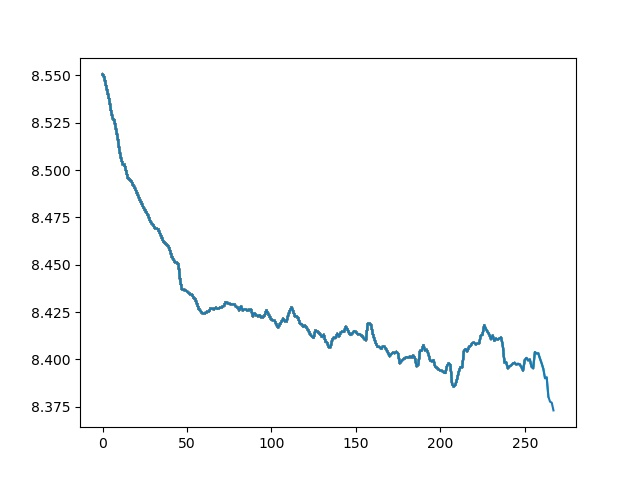
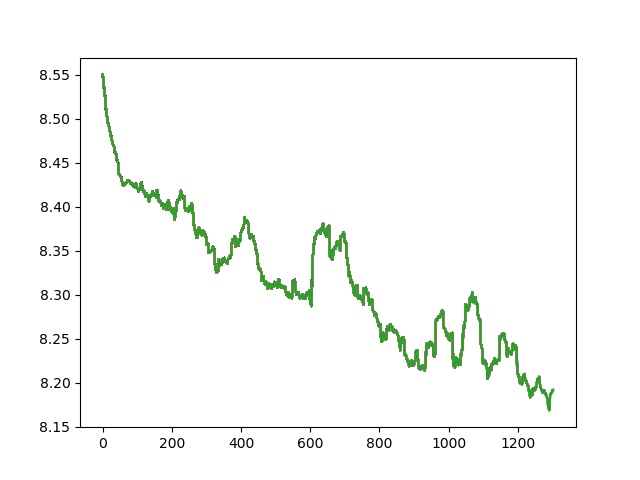
info loss term added

diff --git a/Actor_Critic.py b/Actor_Critic.py
@@ -13,20 +13,14 @@ from util import *
 class Actor_Critic(Module):
     def __init__(self, pretrain_loss_function=None):
         super().__init__()
-        last_hidden_layer_input = AC_HIDDEN_UNIT_NUM + AC_HIDDEN_UNIT_STRIDE*(AC_HIDDEN_LAYER_NUM - 1)
         self.l1 = Linear(STATE_SIZE*CODE_SIZE, AC_HIDDEN_UNIT_NUM)
-        self.b1 = BatchNorm1d(AC_HIDDEN_UNIT_NUM)
         self.a1 = PReLU()
         self.hidden_layers = ModuleList(
-            [Linear(i, i + AC_HIDDEN_UNIT_STRIDE) for i in range(AC_HIDDEN_UNIT_NUM, last_hidden_layer_input + 1, AC_HIDDEN_UNIT_STRIDE)]
-        )
-        self.batchnorm_layers = ModuleList(
-            [BatchNorm1d(i + AC_HIDDEN_UNIT_STRIDE) for i in range(AC_HIDDEN_UNIT_NUM, last_hidden_layer_input + 1, AC_HIDDEN_UNIT_STRIDE)]
+            [Linear(AC_HIDDEN_UNIT_NUM, AC_HIDDEN_UNIT_NUM) for i in range(AC_HIDDEN_LAYER_NUM)]
         )
         self.activation_layers = ModuleList([PReLU() for _ in range(AC_HIDDEN_LAYER_NUM)])
-        self.actor_layer = Linear(last_hidden_layer_input + AC_HIDDEN_UNIT_STRIDE, VOCAB_SIZE)
-        self.critic_hidden_layer = Linear(last_hidden_layer_input + AC_HIDDEN_UNIT_STRIDE, CRITIC_HIDDEN_UNIT_NUM)
-        self.critic_batchnorm = BatchNorm1d(CRITIC_HIDDEN_UNIT_NUM)
+        self.actor_layer = Linear(AC_HIDDEN_UNIT_NUM, VOCAB_SIZE)
+        self.critic_hidden_layer = Linear(AC_HIDDEN_UNIT_NUM, CRITIC_HIDDEN_UNIT_NUM)
         self.critic_activation = PReLU()
         self.critic_layer = Linear(CRITIC_HIDDEN_UNIT_NUM, 1)
         self.critic_loss_function = MSELoss()
@@ -41,12 +35,12 @@ class Actor_Critic(Module):
         s: [BATCH_SIZE, STATE_SIZE](torch.FloatTensor)
         c: [BATCH_SIZE, CODE_SIZE](torch.FloatTensor)
         OUT:
-        action_score = [BATCH_SIZE, VOCAB_SIZE]
+        action_logits = [BATCH_SIZE, VOCAB_SIZE]
         '''
         s_c = torch.bmm(s.unsqueeze(2), c.unsqueeze(1)).view(-1, STATE_SIZE*CODE_SIZE)
         x = self.a1(self.l1(s_c))
-        for layer, batchnorm, activation in zip(self.hidden_layers, self.batchnorm_layers, self.activation_layers):
-            x = activation(batchnorm((layer(x))))
+        for layer, activation in zip(self.hidden_layers, self.activation_layers):
+            x = activation((layer(x)))
         x = self.actor_layer(x)
         return x
 
@@ -66,8 +60,8 @@ class Actor_Critic(Module):
         '''
         s_c = torch.bmm(s.unsqueeze(2), c.unsqueeze(1)).view(-1, STATE_SIZE*CODE_SIZE)
         x = self.a1(self.l1(s_c))
-        for layer, batchnorm, activation in zip(self.hidden_layers, self.batchnorm_layers, self.activation_layers):
-            x = activation(batchnorm((layer(x))))
+        for layer, activation in zip(self.hidden_layers, self.activation_layers):
+            x = activation((layer(x)))
         x = self.actor_layer(x)
         '''
         top_values, _ = x.topk(TOP_K)
@@ -92,9 +86,9 @@ class Actor_Critic(Module):
         '''
         s_c = torch.bmm(s.unsqueeze(2), c.unsqueeze(1)).view(-1, STATE_SIZE*CODE_SIZE)
         x = self.a1(self.l1(s_c))
-        for layer, batchnorm, activation in zip(self.hidden_layers, self.batchnorm_layers, self.activation_layers):
-            x = activation(batchnorm((layer(x))))
-        x = self.critic_activation(self.critic_batchnorm(self.critic_hidden_layer(x)))
+        for layer, activation in zip(self.hidden_layers, self.activation_layers):
+            x = activation((layer(x)))
+        x = self.critic_activation(self.critic_hidden_layer(x))
         x = self.critic_layer(x)
         return x
 

diff --git a/Agent.py b/Agent.py
@@ -1,23 +1,28 @@
 import numpy as np
 import torch
+from torch.nn import CrossEntropyLoss
 from Actor_Critic import Actor_Critic
 from Discriminator import Discriminator
+from Autoencoder import Encoder
+from ActionEncoder import ActionEncoder
 from Memory import ShortMemory, LongMemory
 from util import *
 
 class Agent():
-    def __init__(self, bert_model, expert_weights=None, encoder=None):
+    def __init__(self, bert_model, expert_weights=None):
         if expert_weights is not None:
-            pretrain_loss_function = torch.nn.CrossEntropyLoss(torch.as_tensor(expert_weights, dtype=torch.float, device=DEVICE))
+            pretrain_loss_function = CrossEntropyLoss(torch.as_tensor(expert_weights, dtype=torch.float, device=DEVICE))
             self.actor_critic = Actor_Critic(pretrain_loss_function).to(DEVICE)
         else:
             default_weights = np.zeros(VOCAB_SIZE)
-            self.actor_critic = Actor_Critic(torch.nn.CrossEntropyLoss(torch.as_tensor(default_weights, dtype=torch.float, device=DEVICE)).to(DEVICE))
+            self.actor_critic = Actor_Critic(CrossEntropyLoss(torch.as_tensor(default_weights, dtype=torch.float, device=DEVICE)).to(DEVICE))
         self.discriminator = Discriminator().to(DEVICE)
         self.bert_model = bert_model
-        self.short_memory = ShortMemory(self.actor_critic, self.discriminator, bert_model, encoder)
+        self.encoder = Encoder(True)
+        self.actionencoder = ActionEncoder(True)
+        self.short_memory = ShortMemory(self.actor_critic, self.discriminator, bert_model, self.encoder)
         self.long_memory = LongMemory()
-        self.encoder = encoder
+        self.info_loss_function = CrossEntropyLoss()
         self.horizon_cnt = 0
         self.kl_coef = 0.1
         
@@ -138,10 +143,19 @@ class Agent():
             batch_old_log_probs = torch.as_tensor(old_log_probs[i*BATCH_SIZE:(i+1)*BATCH_SIZE], dtype=torch.float, device=DEVICE)
             critic_loss = self.actor_critic.critic_loss(batch_states, batch_codes, batch_oracle_values)
             actor_loss = self.actor_critic.actor_loss(batch_states, batch_actions, batch_codes, batch_gaes, batch_old_log_probs)
-            loss = PRETRAIN_COEF*pretrain_loss + ACTOR_COEF*actor_loss + CRITIC_COEF*critic_loss
+            #info loss
+            one_hot_codes = to_onehot(batch_codes)
+            action_logits = self.actor_critic(batch_states, one_hot_codes)
+            one_hot_action = gumbel_softmax(action_logits)
+            encoded_action = self.actionencoder(one_hot_action)
+            _, code_out = self.discriminator(batch_states, encoded_action)
+            info_loss = self.info_loss_function(code_out, torch.as_tensor(batch_codes, dtype=torch.long, device=DEVICE))
+            #integrated loss
+            loss = PRETRAIN_COEF*pretrain_loss + ACTOR_COEF*actor_loss + CRITIC_COEF*critic_loss + INFO_COEF*info_loss
             print('a loss: ', actor_loss, end=' ')
             print('c loss: ', critic_loss, end=' ')
-            print('p loss: ', pretrain_loss)
+            print('p loss: ', pretrain_loss, end=' ')
+            print('info loss: ', info_loss)
             self.actor_critic.train_by_loss(loss)
         return pretrain_loss_sum/(min(expert_chunk_length//BATCH_SIZE, agent_chunk_length//BATCH_SIZE))
 

diff --git a/ActionEncoder.py b/ActionEncoder.py
@@ -1,0 +1,69 @@
+import torch
+import numpy as np
+import matplotlib.pyplot as plt
+import gzip, pickle
+from Autoencoder import Encoder
+from torch.nn import Module
+from torch.nn import Linear, PReLU
+from torch.nn import MSELoss
+from torch.distributions import MultivariateNormal, kl_divergence
+from torch.optim import Adam
+from itertools import chain
+from config import *
+from util import *
+
+ITERATION = 100000
+
+class ActionEncoder(Module):
+    def __init__(self, load_mymodel):
+        super().__init__()
+        self.linear = Linear(VOCAB_SIZE, COMPRESSED_VOCAB_SIZE)
+        if load_mymodel:
+            self.load()
+
+    def forward(self, x):
+        return self.linear(x)
+
+    def save(self):
+        torch.save(self.state_dict(), ACTIONENCODER_SAVE_PATH)
+
+    def load(self):
+        self.load_state_dict(torch.load(ACTIONENCODER_SAVE_PATH, map_location=torch.device(DEVICE)))
+        self.to(DEVICE)
+
+
+def generate_data(to_bert_dict, bert_model, encoder:Encoder):
+    tmp = []
+    indice = np.random.randint(low=0, high=VOCAB_SIZE, size=(AUTOENCODER_BATCH_SIZE))
+    for index in indice:
+        tmp.append(to_bert_dict[index])
+    tmp = torch.as_tensor(tmp, dtype=torch.long, device=DEVICE).view(-1, 1)
+    with torch.no_grad():
+        answer = bert_model.embeddings(tmp).squeeze(1)
+        answer = encoder.get_latent_variable(answer)
+    answer = answer.to(DEVICE)
+    #indice to one_hot
+    tmp = torch.eye(VOCAB_SIZE)
+    tmp = tmp[indice]
+    data = torch.as_tensor(tmp, dtype=torch.float, device=DEVICE)
+    return data.detach(), answer.detach()
+
+
+if __name__ == '__main__':
+    bert_model, _ = get_bert_model_and_tokenizer()
+    with gzip.open('Top5000_AtoB.pickle') as f:
+        to_bert_dict = pickle.load(f)
+    encoder = Encoder(True).to(DEVICE)
+    action_encoder = ActionEncoder(False).to(DEVICE)
+    opt = Adam(action_encoder.parameters(), lr=1e-3)
+    loss_function = MSELoss()
+    for e in range(ITERATION):
+        data, answer = generate_data(to_bert_dict, bert_model, encoder)
+        x = action_encoder(data)
+        loss = loss_function(x, answer)
+        action_encoder.zero_grad()
+        loss.backward()
+        opt.step()
+        print(e, ':',loss.detach())
+        if e % 100 == 0:
+            action_encoder.save()

diff --git a/util.py b/util.py
@@ -2,6 +2,7 @@ import torch
 import random
 import os
 import numpy as np
+from torch import softmax
 from collections import Counter
 from transformers import BertTokenizer, BertModel
 from config import *
@@ -107,12 +108,28 @@ def moving_average(loss_list):
             tmp.pop(0)
     return average_list
 
+def sample_gumbel(shape, eps=1e-20):
+    U = torch.rand(shape).to(DEVICE)
+    return -torch.log(-torch.log(U + eps) + eps)
+
+def gumbel_softmax_sample(logits, temperature):
+    y = logits + sample_gumbel(logits.size())
+    return softmax(y / temperature, dim=-1)
+
+def gumbel_softmax(logits, temperature=0.5):
+    """
+    input: [*, n_class]
+    return: [*, n_class] an one-hot vector
+    """
+    y = gumbel_softmax_sample(logits, temperature)
+    shape = y.size()
+    _, ind = y.max(dim=-1)
+    y_hard = torch.zeros_like(y).view(-1, shape[-1])
+    y_hard.scatter_(1, ind.view(-1, 1), 1)
+    y_hard = y_hard.view(*shape)
+    return (y_hard - y).detach() + y
+
 
 if __name__ == '__main__':
-    g = get_expert_chunk_generator()
-    for i in range(100):
-        a = next(g)
-        print(i)
-        print(a['states'].shape)
-        print(a['actions'].shape)
-        print(a['codes'].shape)
+    logits = torch.as_tensor([[-1,0,1],[1,2,0]], dtype=torch.float, device=DEVICE)
+    print(gumbel_softmax(logits, 0.7))

diff --git a/config.py b/config.py
@@ -25,26 +25,27 @@ DISC_HIDDEN_UNIT_NUM = STATE_SIZE
 DISC_LATENT_SIZE = 8
 DISC_LR = 1e-4
 WEIGHT_FOR_CODE = 0.5
-WEIGHT_FOR_KL = 1e-3
-KL_STEP = 1e-5
+WEIGHT_FOR_KL = 1e-1
+KL_STEP = 1e-4
 IC = 0.5
-DISC_STEP = 2
-DISC_UPDATE_CNT = 1
+DISC_STEP = 5
+DISC_UPDATE_CNT = 3
 
 #for actor_critic
-AC_HIDDEN_UNIT_NUM = 2000
+AC_HIDDEN_UNIT_NUM = 256
 AC_HIDDEN_UNIT_STRIDE = 500
 AC_HIDDEN_LAYER_NUM = 2
-AC_LR = 5e-5
+AC_LR = 1e-4
 PRETRAIN_LR = 5e-5
-CRITIC_HIDDEN_UNIT_NUM = 500
+CRITIC_HIDDEN_UNIT_NUM = 32
 TOP_K = 40
 EPSILON = 0.15
 ENTROPY = 1e-1
 ACTOR_COEF = 1
 CRITIC_COEF = 1
-PRETRAIN_COEF = 0.5
-PPO_STEP = 5
+PRETRAIN_COEF = 0
+INFO_COEF = 1
+PPO_STEP = 7
 PRETRAIN_SAVEPATH = './model_save/pretrain.pt'
 
 #for memory
@@ -63,3 +64,7 @@ COMPRESSED_VOCAB_SIZE = 8
 AUTOENCODER_BATCH_SIZE = 128
 AUTOENCODER_KL_COEF = 0.1
 AUTOENCODER_SAVE_PATH = './model_save/encoder'
+
+#for action_encoder
+ACTIONENCODER_BATCH_SIZE = 128
+ACTIONENCODER_SAVE_PATH = './model_save/actionencoder.pt'

diff --git a/main.py b/main.py
@@ -16,9 +16,8 @@ if __name__ == '__main__':
         first_list = pickle.load(f)
     weights = get_weights_from_dict(dist_dict)
     bert_model, bert_tokenizer = get_bert_model_and_tokenizer()
-    encoder = Encoder(True) #load encoder
     env = Environment(bert_model, bert_tokenizer, first_list)
-    agent = Agent(bert_model, weights, encoder)
+    agent = Agent(bert_model, weights)
 #    agent.pretrain_load()
     expert_chunk_generator = get_expert_chunk_generator()
     dist = torch.distributions.Categorical(probs=torch.full((CODE_SIZE,), fill_value=1/CODE_SIZE))

diff --git a/Autoencoder.py b/Autoencoder.py
@@ -29,11 +29,7 @@ class Encoder(Module):
     def get_latent_variable(self, x):
         x = self.out_layer(self.prelu(self.linear(x)))
         m = x[:, :COMPRESSED_VOCAB_SIZE]
-        log_s = x[:, COMPRESSED_VOCAB_SIZE:]
-        s = torch.exp(log_s)
-        dist = MultivariateNormal(m, torch.diag_embed(s))
-        latent_variable = dist.rsample()
-        return latent_variable
+        return m
 
     def save(self, epoch):
         path = AUTOENCODER_SAVE_PATH + str(epoch) + ".pt"
